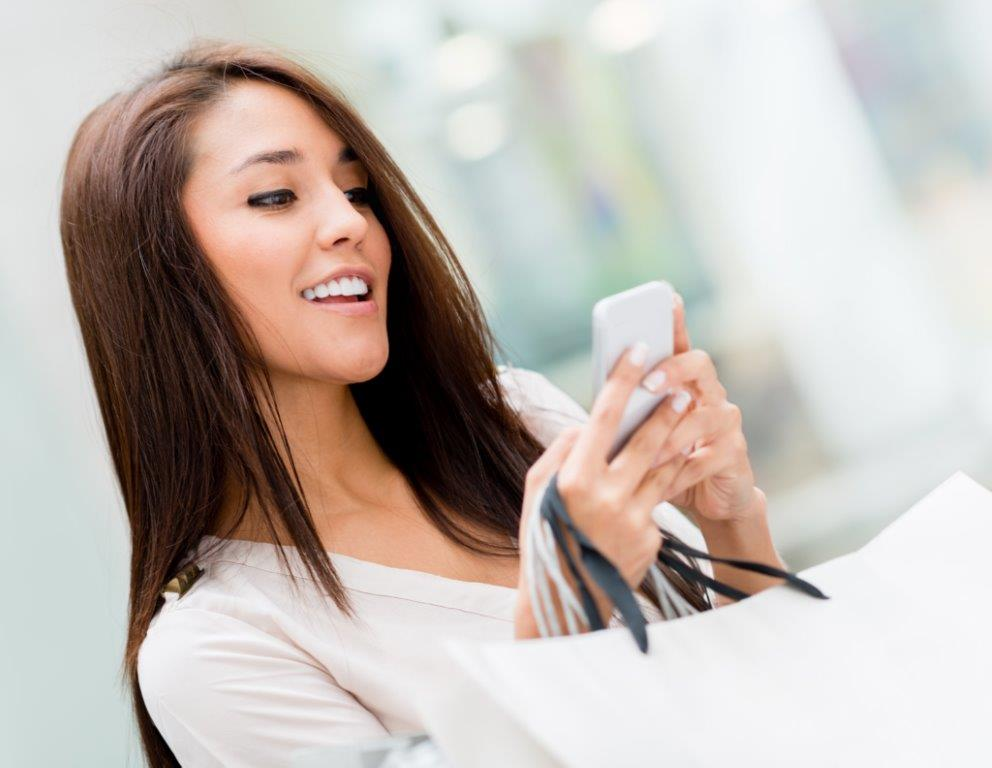
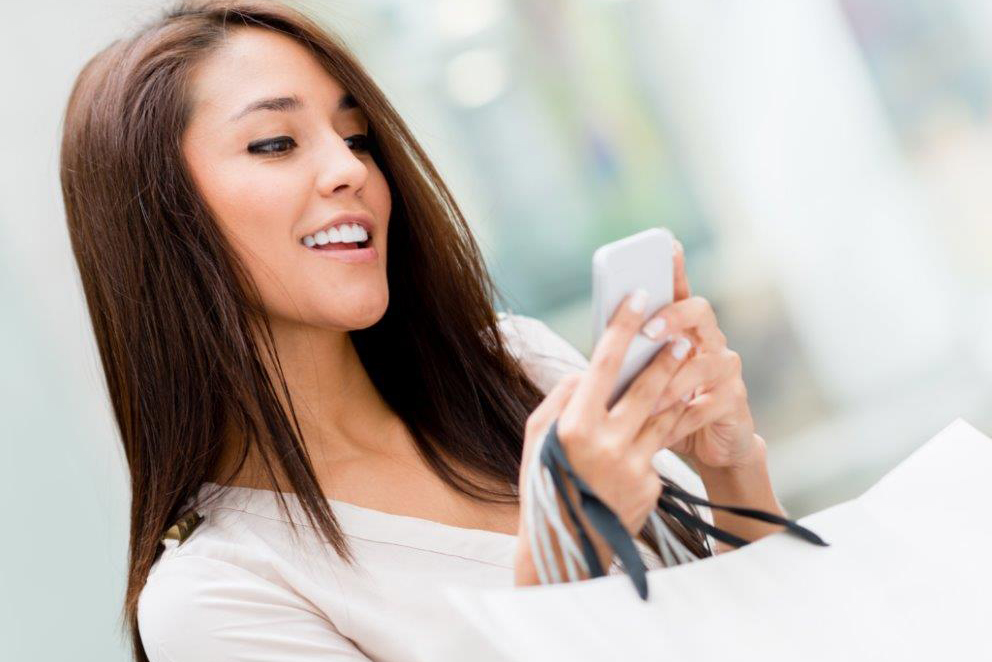
style edits: mailchimp form, hero img

diff --git a/index_nomailchimp.html b/index_nomailchimp.html
@@ -4,6 +4,7 @@
 	<link rel="stylesheet" type="text/css" href="styles.css">
 	<link href='https://fonts.googleapis.com/css?family=Roboto:400,500|Roboto+Slab:700,400' rel='stylesheet' type='text/css'>
 	<title>Sankofa</title>
+	<script src="https://ajax.googleapis.com/ajax/libs/jquery/1.12.2/jquery.min.js"></script>
 </head>
 <body>
 <!-- Start of 1st Section-->
@@ -50,40 +51,9 @@
 			science and product design</p>
 		<p class="description-title">Stay up to date with our product and services by signing up below:</p>
 
-			<!--<input class="signup-form" type="text" name="SignUpName" placeholder="Name"/>-->
-			<!--<input class="signup-form" type="email" name="SignUpEmail" email="email" placeholder="Email"/>-->
-			<!--<input class="signup-btn" type="submit" name="Submit" value="Sign Up"/>-->
-
-		<!-- Begin MailChimp Signup Form -->
-		<div id="mc_embed_signup">
-			<form action="//instapage.us12.list-manage.com/subscribe/post?u=33b5d4eb8a69809918399a028&amp;id=42072cda32" method="post" id="mc-embedded-subscribe-form" name="mc-embedded-subscribe-form" class="validate" target="_blank" novalidate>
-				<div id="mc_embed_signup_scroll">
-					<div class="mc-field-group">
-						<input type="text" name="MMERGE3" class="signup-form" id="mce-MMERGE3" placeholder="Name">
-					</div>
-					<div class="mc-field-group">
-						<input type="email" name="EMAIL" class="required email signup-form" id="mce-EMAIL"
-							   placeholder="Email">
-					</div>
-
-					<input type="submit" value="Sign Up" name="subscribe" id="mc-embedded-subscribe"
-						   class="button signup-btn">
-					<!---->
-					<div id="mce-responses" class="clear">
-						<div class="response" id="mce-error-response" style="display:none"></div>
-						<div class="response" id="mce-success-response" style="display:none"></div>
-					</div>    <!-- real people should not fill this in and expect good things - do not remove this or risk form bot signups-->
-					<div style="position: absolute; left: -5000px;" aria-hidden="true"><input type="text" name="b_33b5d4eb8a69809918399a028_42072cda32" tabindex="-1" value=""></div>
-					<!--<div class="clear">-->
-					<!--</div>-->
-				</div>
-			</form>
-		</div>
-		<script type='text/javascript'
-				src='//s3.amazonaws.com/downloads.mailchimp.com/js/mc-validate.js'></script><script
-			type='text/javascript'>(function($) {window.fnames = new Array();
-		window.ftypes = new Array();fnames[0]='EMAIL';ftypes[0]='email';fnames[3]='MMERGE3';ftypes[3]='text';}(jQuery));var $mcj = jQuery.noConflict(true);</script>
-		<!--End mc_embed_signup-->
+		<input class="signup-form" type="text" name="name" placeholder="Name"/>
+		<input class="signup-form" type="text" email="email" placeholder="Email"/>
+		<input class="signup-btn" type="submit" name="Submit" value="Sign Up"/>
 	</div>
 </section>
 <!-- End of 3rd Section-->
@@ -92,10 +62,8 @@
 	<p>Sankofa &copy; 2016. Built by <a href="http://www.resilientcoders.org" target="_blank">Resilient Coders</a></p>
 </footer>
 
-<script src="https://ajax.googleapis.com/ajax/libs/jquery/1.12.2/jquery.min.js"></script>
 <script>
-
-	$(document).ready(function(){
+	$(function() {
 		$('a[href*="#"]:not([href="#"])').click(function() {
 			if (location.pathname.replace(/^\//,'') == this.pathname.replace(/^\//,'') && location.hostname == this.hostname) {
 				var target = $(this.hash);

diff --git a/styles.css b/styles.css
@@ -85,7 +85,7 @@ section{
     -webkit-justify-content: center;
     align-items: center;
     -webkit-align-items: center;
-    min-height: 480px;
+  /*  min-height: 480px; */
 }
 button{
     font-size: 20px;
@@ -177,11 +177,27 @@ div > h1{
     text-align: center;
     text-align: left;
 }
-.signup-form{
-    width: 33%;
+
+
+.mc-field-group {
+  width: 33%;
+  display:inline-block;
     font-size: 20px;
     height: 56px;
-    padding: 0 18px;
+    background-color: transparent;
+    color: #fff;
+    /*border: 2px solid white; */
+}
+
+#mc_embed_signup {
+  width:100%;
+}
+
+.signup-form{
+    width: 90%;
+    font-size: 20px;
+    height: 56px;
+    padding: 0 0 0 18px;
     background-color: transparent;
     color: #fff;
     border: 2px solid white;
@@ -256,7 +272,7 @@ div > h1{
     justify-content: space-around;
     align-items: center;
     flex-direction: column;
-    padding: 0px;
+    padding: 0 0 50px 0;
     height: 50%;
 }
 
@@ -274,25 +290,32 @@ div > h1{
 }
 
 .dual-img {
-    height: 480px;
+  /*  height: 480px; */
     overflow: hidden;
-}
-
-@media all and (min-width: 961px) and (max-width: 1368px) {
-    .dual-img {
-        min-height: 350px;
-        height: 350px;
-    }
-    .description-container {
-        width: 83.3333333%;
-    }
 }
 
 .dual-img img {
     height: auto;
-    width: 100%;
     overflow: hidden;
 }
+
+@media (min-width: 961px) {
+    .dual-img {
+        /*
+        min-height: 350px;
+        height: 350px;
+        */
+    }
+    .dual-img img {
+      width:50%;
+    }
+    .description-container {
+        width: 83.3333333%;
+    }
+
+}
+
+
 @media all and (min-width: 120px) and (max-width: 960px) {
     .dual-img {
         display: block;
@@ -301,6 +324,7 @@ div > h1{
     }
     .dual-img img {
         height: auto;
+        width: 100%;
     }
 
     .icon {
@@ -316,13 +340,19 @@ div > h1{
     }
 
     .signup-form {
-        width: 100%;
-        margin: 18px auto;
-    }
+        width: 90%;
+        padding: 0 18px;
+}
 
     .signup-btn {
         width: 50%;
         margin: 18px auto;
+    }
+
+    .mc-field-group {
+      width: 100%;
+      display:block;
+      margin: 12px 0;
     }
 }
 .bg-container {
